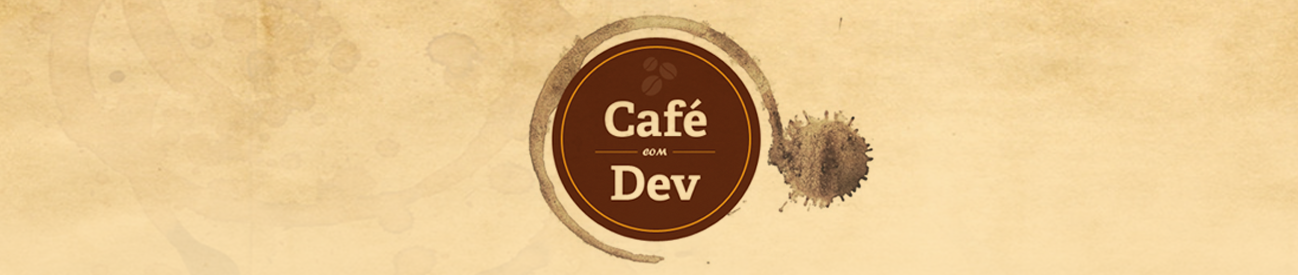
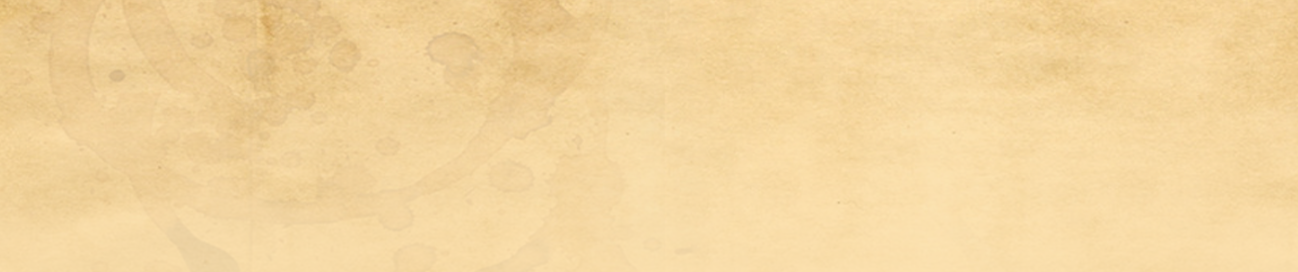
changelayout cafe com dev

Changed region(s): [[0.4006, 0.0588, 0.678, 0.9706]]

diff --git a/eventos/cafe-com-dev/index.html b/eventos/cafe-com-dev/index.html
@@ -5,115 +5,43 @@ description: O Café com DEV é um evento semanal organizado pela HE:labs
 ---
 <section id="cafecomdev-page">
   <div id="cover" class="cover-cafecomdev-page">
-    <div class="cafecomdev">
-    </div>
+  <div class="containner">
+    <img src="/images/cafelogo.png">
+      <div class="text">
+        <h2>O que é o café com DEV</h2>
+        <h4>O objetivo do encontro é reunir interessados e debater sobre um tema específico.</h4>
+      </div>
   </div>
-    <div class="containner">
-  		<img src="/images/capacafe.png">
-  		A realidade é que o desenvolvimento para iOS tem que seguir uma guideline extremamente rígida.A atualização de um aplicativo em caso de bug também é muito lenta, as vezes ineficiente. Com isso os programadores tendem a se importar mais com que estão entregando, já que qualquer alteração depois de um deploy, pode demorar semanas e custar muito caro para o aplicativo, em termos de reviews negativas.
-		
-			<h1>Proximos Eventos</h1>
-			00/00/00<br>
-	   		00/00/00<br>
-	    	00/00/00<br>
-			00/00/00
+  </div>
+  <div class="containner">
+    <div class="Proximo Evento">
+      <h3>Proximo Evento</h3>
+        <div class="calendar"> 
+          <h1 class="month">
+          <p class="day"></p>
 
-    	<h1>Ultimos Eventos</h1>
-		<div class="eventoscafecomdev">
-		
-			<img src="/images/fundo.png">
-		
-			<img src="/images/fundo.png">
-		
-			<img src="/images/fundo.png">
-		
-			<img src="/images/fundo.png">
-
-	     </div>
-	</div>
+        </div>
     
-    <h3>Outros Eventos</h3>
+        <p><h2>Convidado: Júnior Carvalho</h2></p>
+        <h2>Tema:Tecnológias que envolvem nota fiscal eletrônica de produtos, DANFE, ICMS, etc.</h2>
+    </div>
+    <h3>Últimos Eventos</h3>
     <ul>
       <li>
-        <img src="/images/mailing/eventos-recomendados.png"/>
+        <img src="/images/cafecomdev1.png"/>
         <span>26/02/2013</span>
-        <h4>Lista de eventos que apoiamos e recomendamos!</h4>
-        <p>Fizemos uma lista compilada de eventos que apoiamos e recomendamos para os próximos meses. Falamos sobre o <a href="http://horaextra.org/">#horaextra</a>, <a href="http://riojs.org/">Rio.JS</a>, <a href="http://kolaborativa.com/">Kolaborativa</a>, <a href="http://www.agendatech.com.br/eventos/tecnologia/2013/encontro-ruby-on-rio">Ruby on Rio</a> e <a href="http://devinsampa.com.br/">Dev in Sampa</a></p>
+        <h4>1° Café com DEV</h4>
+        <p>Confira aqui o que rolou no 1ºcafé com Dev<a href="http://helabs.com.br/blog/2013/02/05/retrospectiva-1-cafe-com-dev/"> cafecomdev</a> 
         <br clear="all">
       </li>
       <li>
-        <a href="http://horaextra.org"><img src="/images/mailing/horaextra.png"/></a>
-        <span>19/02/2013</span>
-        <h4>Lançamento do novo site do #horaextra!</h4>
-        <p>Lançamos a nova página do <a href="http://horaextra.org">#horaextra</a>. O #horaextra é um encontro semanal de desenvolvedores para trocar ideias e tomar um chopp!</p>
-        <br clear="all">
-      </li>
-      <li>
-        <a href="/cloud"><img src="/images/mailing/cloud.png"/></a>
-        <span>05/02/2013</span>
-        <h4>Lançamento do HE:cloud e desconto no workshop Startup DEV</h4>
-        <p>Lançamos a página da <a href="/cloud">HE:cloud</a> onde falamos sobre o novo serviço da HE:labs e estamos oferencendo um cupom de 20% de desconto para o workshop do Startup DEV.</p>
-        <br clear="all">
-      </li>
-      <li>
-        <a href="/eventos/cafe-com-dev"><img src="/images/mailing/cafecomdev.png"/></a>
-        <span>29/01/2013</span>
-        <h4>Venha nos encontrar no Café com DEV</h4>
-        <p>Iniciamos nossa série de eventos do ano com o <a href="/eventos/cafe-com-dev">Café com DEV</a>, um encontro semanal para conversarmos sobre algum tema específico de tecnologia e bebermos um bom café.</p>
-        <br clear="all">
-      </li>
-      <li>
-        <a href="http://desenvolvimentoagil.com.br"><img src="/images/mailing/desenvolvimentoagil.png"/></a>
-        <span>22/01/2013</span>
-        <h4>Lançamento do Guia do Desenvolvimento Ágil</h4>
-        <p>De uma parceria entre a <a href="http://improveit.com.br/">Improve IT</a> e a <a href="http://helabs.com.br">HE:labs</a> surge o <a href="http://desenvolvimentoagil.com.br">DesenvolvimentoÁgil.com.br</a>. Um guia Open Source sobre Desenvolvimento Ágil.</p>
-        <br clear="all">
-      </li>
-      <li>
-        <a href="http://clientelacrm.com/"><img src="/images/mailing/clientela.png"/></a>
-        <span>15/01/2013</span>
-        <h4>Lançamento do código do Clientela em Open Source</h4>
-        <p>Liberamos em Open Souce o <a href="http://clientelacrm.com/">Clientela</a>! O Clientela é um CRM completo, desenvolvido em Ruby on Rails e rodando tranquilamente no Heroku. Participe, colabore, hackeie!</p>
-        <br clear="all">
-      </li>
-      <li>
-        <a href="/opensource"><img src="/images/HE-opensource.png"/></a>
-        <span>07/01/2013</span>
-        <h4>Já conheçe os nossos projetos open source?</h4>
-        <p>Falamos sobre os projetos os projeto <a href="/opensource">Open Source</a> da HE:labs. Além de usarmos projetos já criados, sempre contribuimos com melhorias e novos projetos.</p>
-        <br clear="all">
-      </li>
-      <li>
-        <a href="/workshops/startupdev"><img src="/images/msg-startupdev.jpg"/></a>
-        <span>13/12/2012</span>
-        <h4>Super desconto para o workshop Startup DEV</h4>
-        <p>Feito para programadores e designers que desejam aprimorar seus conhecimentos e aprender a desenvolver software com a agilidade que só o <a href="http://startupdev.com.br">Startup DEV</a> tem.</p>
-        <br clear="all">
-      </li>
-      <li>
-        <a href="http://catarse.me/pt/usuario-mcommerce-brasil"><img src="/images/msg-mcommerce.png"/></a>
-        <span>06/12/2012</span>
-        <h4>Apoiamos o projeto Usuário M-commerce Brasil no Catarse</h4>
-        <p>Nosso trabalho está muito relacionado ao Design Thinking. Quando soubemos que a Ganthe, empresa especializada em Design Thinking, estava utilizando o crowdfunding para realizar uma pesquisa com objetivo de mapear o perfil nacional dos usuários de smartphones e tablets no que diz respeito ao comportamento de compras, tivemos que apoiar com a cota máxima!</p>
-        <br clear="all">
-      </li> 
-      <li>
-        <a href="/workshops/rails-for-zombies-two"><img src="/images/msg-railszombies.png"/></a>
-        <span>30/11/2012</span>
-        <h4>Sorteio e Desconto para o Rails For Zombies 2</h4>
-        <p>Sorteamos uma vaga para o curso Rails For Zombies 2 e ainda demos um desconto de 20% nos workshops exclusivo para os participantes da mailing.</p>
-        <br clear="all">
-      </li> 
-      <li>
-        <a href="http://workshop.bootstrappers.com.br"><img src="/images/msg-bootstrappers.png"/></a>
-        <span>22/10/2012</span>
-        <h4>Acesso completo ao material do Workshop Bootstrappers</h4>
-        <p>Por meio de uma parceria com o Workshop Bootstrappers oferecemos todo o material gratuitamente com mais de 7 horas de vídeo e 250 slides sobre temas relevantes par quem deseja empreender.</p>
+        <a href="http://horaextra.org"><img src="/images/cafecomdev2.png"/></a>
+        <span>22/02/2013</span>
+        <h4>2° Café com DEV</h4>
+        <p>Confira aqui o que rolou no 2ºcafé com Dev <a href="http://helabs.com.br/blog/2013/02/25/retrospectiva-2-cafe-com-dev/"> cafecomdev</a>
         <br clear="all">
       </li>
     </ul>
   </div>
+  <div class="content">
 </section>
-
-	
-<!--End mc_embed_signup-->

diff --git a/stylesheets/he-core.css b/stylesheets/he-core.css
@@ -22,7 +22,7 @@ body {
   vertical-align: baseline;
   font-family: 'Lato', sans-serif;
   font-size: 13px;
-  color: #888;
+  color:rgb(71, 60, 60);
 }
 
 
@@ -136,7 +136,7 @@ h3 {
   font-size: 16px;
   font-weight: bold;
   text-align:left;
-  color: #222;
+  color: brown;
   padding-top: 20px;
   margin-bottom: 15px;
 }
@@ -1535,7 +1535,7 @@ div.zombie-anezio {
 .cover-cafecomdev-page h2{
   padding:0px;
   margin:0px;
-  color:#b80606;
+  color:rgb(82, 6, 6);
   font-size:30px;
   text-transform:none;
   width:520px;
@@ -1584,17 +1584,16 @@ div.zombie-anezio {
 #cafecomdev-page ul li h4{
   font-size:23px;
   font-weight:400;
-  color:#b80606;
+  color:brown;
   margin-bottom:20px;
 }
 
 #cafecomdev-page ul li p{
   font-size:16px;
 }
-
-.cafecomdev-form{
-  padding-top:55px;
-  margin-left:250px;
+.cafecomdev-text{
+  padding-top:px;
+  margin-right:250px;
 }
 
 .cafecomdev-form p{
@@ -1613,9 +1612,8 @@ div.zombie-anezio {
 
 .cover-cafecomdev-page div.containner{
   height:275px;
-  background-image: url(/images/mailing-page-containner-bg.png);
-  background-position: center;
-  background-repeat: no-repeat;
+  position:relative;
+  bottom:20px;
 }
 
 .cover-cafecomdev-page div.containner input[type="text"], 
@@ -1643,7 +1641,12 @@ div.zombie-anezio {
 .containner{
   margin:0 auto;
 }
-
+.text{
+  margin-left:450px;
+  position:relative;
+  bottom:210px;
+  font-size:20px;
+}
 
 
 /*=====================*/
@@ -2945,3 +2948,57 @@ p.advice {
   font-size: 28px;
   margin: 40px 0;
 }
+/*=====================*/
+/*== calendar
+/*=====================*/
+div.calendar {
+  height:140px;
+  width:130px;
+  
+  background-color:white;
+  text-align: center;
+
+  border-radius:      5px;
+
+  box-shadow:     0 0 20px rgba(0,0,0,0.6);
+
+  background-image: -webkit-radial-gradient(center, #eee, #fff);
+  background-image: -moz-radial-gradient(center, #eee, #fff);
+
+
+  -webkit-backface-visibility:hidden;
+  
+  margin:50px auto;
+}
+
+div.calendar h1 {
+  margin:0;
+  text-align: center;
+  color:#fff;
+  font-style: bold;
+  font-size: 1em;
+  padding:10px;
+  border-bottom: 2px solid #1e1e1e;
+
+  background-color: #d93e3e;  
+
+  background-image: -webkit-gradient(linear,left top, left bottom,color-stop(0.0,#e37f80),color-stop(0.85, #d93e3e));
+  background-image: -moz-gradient(linear,left top, left bottom,color-stop(0.0,#e37f80),color-stop(0.85, #d93e3e));
+  background-image: -ms-gradient(linear,left top, left bottom,color-stop(0.0,#e37f80),color-stop(0.85, #d93e3e));
+  background-image: -o-gradient(linear,left top, left bottom,color-stop(0.0,#e37f80),color-stop(0.85, #d93e3e));
+  background-image: gradient(linear,left top, left bottom,color-stop(0.0,#e37f80),color-stop(0.85, #d93e3e));
+
+  -webkit-border-radius:  5px 5px 0 0;
+  -moz-border-radius:   5px 5px 0 0;
+  -ms-border-radius:    5px 5px 0 0;
+  -o-border-radius:   5px 5px 0 0;
+  border-radius:      5px 5px 0 0;
+}
+
+div.calendar p {
+  font-size: 3em;
+  line-height: 0%;
+  color:black;
+  font-weight: bold;
+}
+
